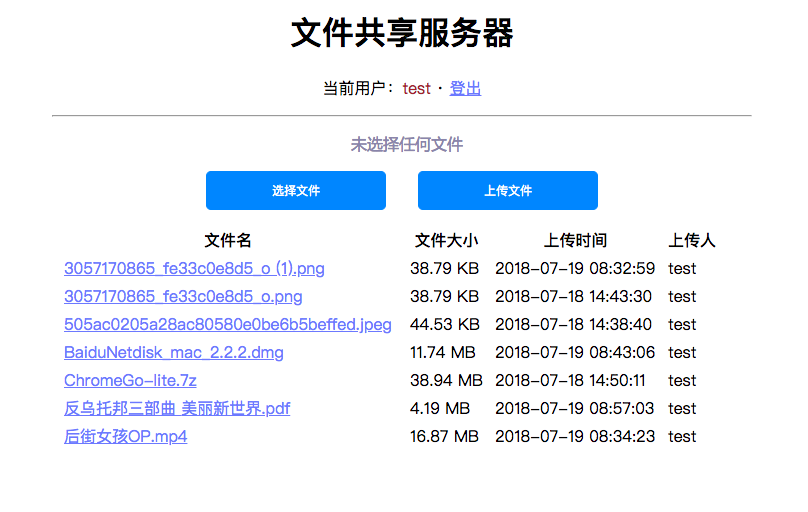
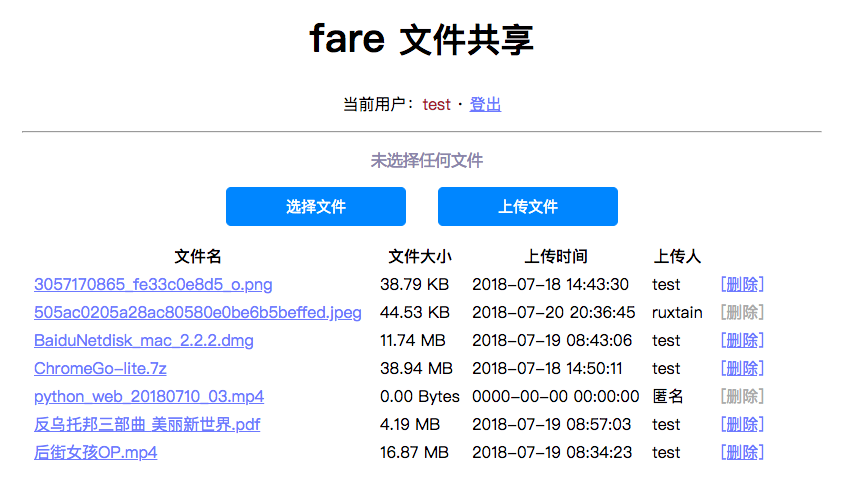
同名文件自动重命名；登录界面优化

Changed region(s): [[0.0309, 0.1559, 0.9282, 0.9667], [0.3403, 0.0312, 0.6498, 0.1247]]

diff --git a/templates/login.html b/templates/login.html
@@ -2,7 +2,7 @@
 <html>
 <head>
     <meta charset="utf-8">
-    <title>登录啊少年！</title>
+    <title>欢迎使用 fare</title>
     <style type="text/css">
         body {
             background-color: #fff;
@@ -18,11 +18,12 @@
         }
         div.main {
             margin: 0 auto;
-            width: 700px;
+            width: 800px;
             text-align: center;
         }
         input{
-                width: 180px;
+                font-size: 15px;
+                width: 195px;
                 border: 1px solid #ccc;
                 padding: 7px 0px;
                 border-radius: 3px;
@@ -46,7 +47,7 @@
     border: 1px solid #1E90FF;
     border-radius: 5px;
     cursor: pointer;
-    width: 180px;
+    width: 200px;
         }
         #login:hover {
             background-color: #5599FF;
@@ -58,16 +59,18 @@
 <body>
     <div class="wrapper">
         <div class="main">    
-            <h1 style="font-size: 40px; font-family: sans-serif;">fare</h1>
-            <p>[F]ile Sh[are] 局域网文件共享</p>
-            <p>人生苦短，我用 Python</p>
+            <h1 style="font-size: 40px; font-family: sans-serif;">fare <span style="font-size: 0.85em">文件共享</span></h1>
+            <p>已经登录？<a href="/">点击这里</a> | 更多信息：<a href="https://github.com/ruxtain/fare" target="_blank">源代码</a></p>
+            <hr>
+            <br>
             <form method="post">
                 <p>
-                <input type="text" name="username" placeholder="用户名">
+                <input type="text" id="username" name="username" placeholder="用户名">
                 </p>
                 <p>
                 <input type="password" name="password" placeholder="密码">
                 </p>
+                %(error_info)s
                 <p>
                 <input type="submit" name="submit" id="login" value="登录">
                 </p>
@@ -75,4 +78,11 @@
         </div>
     </div>
 </body>
+<script type="text/javascript">
+const username = document.getElementById("username");
+const error_info = document.getElementById("error_info");
+username.addEventListener("focus", function() {
+    error_info.style.display = "none";
+});    
+</script>
 </html>

diff --git a/templates/home.html b/templates/home.html
@@ -19,13 +19,14 @@ div.main {
     text-align: center;
 }
 .fare_button {
-    padding: 10px;
+    padding: 8px;
     color: white;
     background-color: #1E90FF;
     border: 1px solid #1E90FF;
     border-radius: 5px;
     cursor: pointer;
     width: 180px;
+    font-size: 15px;
 }
 .fare_button:hover {
     background-color: #5599FF;
@@ -50,8 +51,8 @@ table td {
     <body>
     <div class="wrapper">
         <div class="main">
-            <h1 style="font-size: 40px; font-family: sans-serif;">fare <span style="font-size: 0.85em">文件共享服务器</span></h1>
-            <p>当前用户：<span id="username">%(username)s</span> · <a href="/logout">登出</a></p>
+            <h1 style="font-size: 40px; font-family: sans-serif;">fare <span style="font-size: 0.85em">文件共享</span></h1>
+            <p>当前用户：<span id="username">%(username)s</span> · <a href="/logout">退出</a></p>
             <hr>
             <form enctype="multipart/form-data" method="post" action="/upload">
             <p>
@@ -71,6 +72,7 @@ table td {
                     <th>文件大小</th>
                     <th>上传时间</th>
                     <th>上传人</th>
+                    <th>操作</th>
                 </tr>
                 %(file_info)s
             </table>
@@ -106,21 +108,3 @@ table td {
   </script>    
     </body>
 </html>
-
-
-
-
-
-
-
-
-
-
-
-
-
-
-
-
-
-

diff --git a/views.py b/views.py
@@ -10,6 +10,7 @@ from urllib.parse import parse_qs, quote
 import mimetypes
 import glob
 import os
+import re
 
 import secure
 
@@ -17,6 +18,26 @@ root = os.path.dirname(__file__)
 storage = os.path.join(root, 'storage')
 os.makedirs(storage, exist_ok=True) # 确保目录存在
 
+def _ellipsis(s, n=33):
+    '''
+    s 字符串
+    n 保留的长度（中文一个字视为2个英文字母的长度）
+    多余的部分变成 ...
+    '''
+    visible = ''
+    length = 0
+    for i in s:
+        if len(i.encode('utf-8')) == len(i): # 英文字符
+            length += 1
+        else:
+            length += 2
+        visible += i
+        if n <= length:
+            break
+    if visible != s:
+        return visible + ' ...'
+    else:
+        return s
 
 def _buffer(ifile, blocksize=1048576):
     '''用于读取大文件'''
@@ -33,10 +54,49 @@ def _is_file(item):
     '''
     return getattr(item, '_binary_file', None) and item.filename
 
-def _save_file(file, name):
-    with open(os.path.join(storage, name), 'wb') as f:
+def _rename_file(filename):
+    '''
+    获得一个文件名，确保没有重复，有重复则加序号 ~1 , ~2
+    '''
+    target_filename, target_ext = os.path.splitext(filename)
+
+    if target_ext: # 有后缀名
+        pattern = '(^' + target_filename + ')~*(\\d*)(\\' + target_ext + '$)'  # 找出一个系列的名字
+    else:
+        pattern = '(^' + target_filename + ')~*(\\d*)' 
+
+    matched = []
+    for existing_filepath in glob.glob(storage + '/*'):
+        existing_filename = os.path.basename(existing_filepath)
+        match_filename = re.findall(pattern, existing_filename)
+
+        if match_filename:
+            match_filename = list(match_filename[0]) # 得到列表
+            match_filename.append('') # 使得无后缀的多一项，有后缀也多一项，不过被忽略了
+            if match_filename[1] == '':
+                match_filename[1] = '0'
+            matched.append(match_filename)
+
+    if matched: # 有内容
+        last_filename = max(matched, key=lambda i:int(i[1]))
+        return "{}~{}{}".format(last_filename[0], int(last_filename[1])+1, last_filename[2])
+
+    else:
+        return filename # 原封不动返回
+
+
+def _save_file(file, filename):
+    '''
+    3个功能：
+    1. 将文件分块储存
+    2. 确保没有重名文件，如果有，则用序号重命名，如 x，又上传x，则为 x_1, x_2..
+    3. 返回这个最终文件名，以便文件信息录入
+    '''
+    final_filename = _rename_file(filename)
+    with open(os.path.join(storage, final_filename), 'wb') as f:
         for chunk in _buffer(file):
             f.write(chunk)
+    return final_filename
 
 def render(name, context={}):
     '''
@@ -83,7 +143,7 @@ def login(env):
     headers = [('Content-Type', 'text/html; charset=utf-8')]
 
     if env['REQUEST_METHOD'] == 'GET':
-        body = render("login.html")
+        body = render("login.html", context={"error_info": ''})
 
     elif env['REQUEST_METHOD'] == 'POST':
         length = int(env['CONTENT_LENGTH'])
@@ -101,8 +161,7 @@ def login(env):
             headers.append(('Location', '/')) 
             # wsgi 服务器自带了一个 sessionid.. 我后面看，现在先用自定义的
         else:
-            body = '<h2>登录失败..联系服务器机主 ruxtain@github 问问看..</h2><a href="/">带我回登录页~</a>'.encode('utf-8')
-
+            body = render("login.html", context={"error_info": '<span id="error_info" style="color: #a33">提示: 用户名或者密码错误</span>'})
     return status, headers, body
 
 @login_required('/login')
@@ -122,17 +181,17 @@ def home(env):
     headers = [('Content-Type', 'text/html; charset=utf-8')]
     trs = ''
     tr_template = """<tr>
-        <td><a href="{}" >{}</a></td>
-        <td>{}</td>
-        <td>{}</td>
-        <td>{}</td>
-        {}
+        <td><a title="{filename}" href="{download_link}" >{filename_elp}</a></td>
+        <td>{size}</td>
+        <td>{datetime}</td>
+        <td>{username}</td>
+        {delete_td}
     <tr>"""
-    for file in glob.glob(storage + '/*'):
-        file = os.path.basename(file)
-        download_link = '/download?filename={}'.format(file)
-        delete_link = '/delete?filename={}'.format(file)
-        info = secure.get_file_info(file)
+    for filepath in glob.glob(storage + '/*'):
+        filename = os.path.basename(filepath)
+        download_link = '/download?filename={}'.format(filename)
+        delete_link = '/delete?filename={}'.format(filename)
+        info = secure.get_file_info(filename)
         size =  secure._format_file_size(info['size'])
         datetime = info['datetime']
         username = info['username']
@@ -143,7 +202,15 @@ def home(env):
         else:
             delete_td = '<td><a style="color: #aaa">[删除]</a></td>'
 
-        tr = tr_template.format(download_link, file, size, datetime, username, delete_td)
+        tr = tr_template.format(
+            download_link = download_link, 
+            filename = filename,
+            filename_elp = _ellipsis(filename), 
+            size = size, 
+            datetime = datetime, 
+            username = _ellipsis(username), 
+            delete_td = delete_td
+        )
         trs += tr
     context = {
         "username": secure.get_username(env),
@@ -163,11 +230,11 @@ def upload(env):
     for key in form.keys():
         data = form[key]
         if _is_file(data):
-            name = data.filename # basename
+            filename = data.filename # basename
             file = data.file
-            _save_file(file, name)
+            final_filename = _save_file(file, filename) # 返回最终文件名，因为保存过程中，可能重命名为 xx_1 xx_2 
             username = secure.get_username(env)
-            secure.insert_file_info(filename=name, username=username)
+            secure.insert_file_info(filename=final_filename, username=username)
     return status, headers, b''
 
 @login_required('/login')
@@ -212,8 +279,9 @@ def delete(env):
 
 
 
-
-
+if __name__ == '__main__':
+    '''testing'''
+    _rename_file('后街女孩OP.mp4')
 
 
 

diff --git a/README.md b/README.md
@@ -4,19 +4,21 @@ fare as in [f]ile sh[are].
 
 一个基于 WSGI 的局域网文件共享服务器。
 
-+ 纯基于文件系统的数据储存方式
++ 基于文件系统的数据储存方式（不需要预装任何数据库）
 + 支持登录（所有用户信息和 session 信息用 json 形式储存）
-+ 支持记录简单的文件信息
+
 
 ## 运行环境
 
-支持 Python3.x。完全使用标准库，无须安装其他依赖。
+完全使用 Python 标准库，无须安装其他依赖。
+
 
 ## 使用方法
 
 将 main.py 中 host 换成你的局域网 IP，然后直接运行项目根目录下的 main.py 即可。
 
 默认有一个名为 test，密码为 test 的用户帐号可供测试。
+
 
 ## 效果图
 
